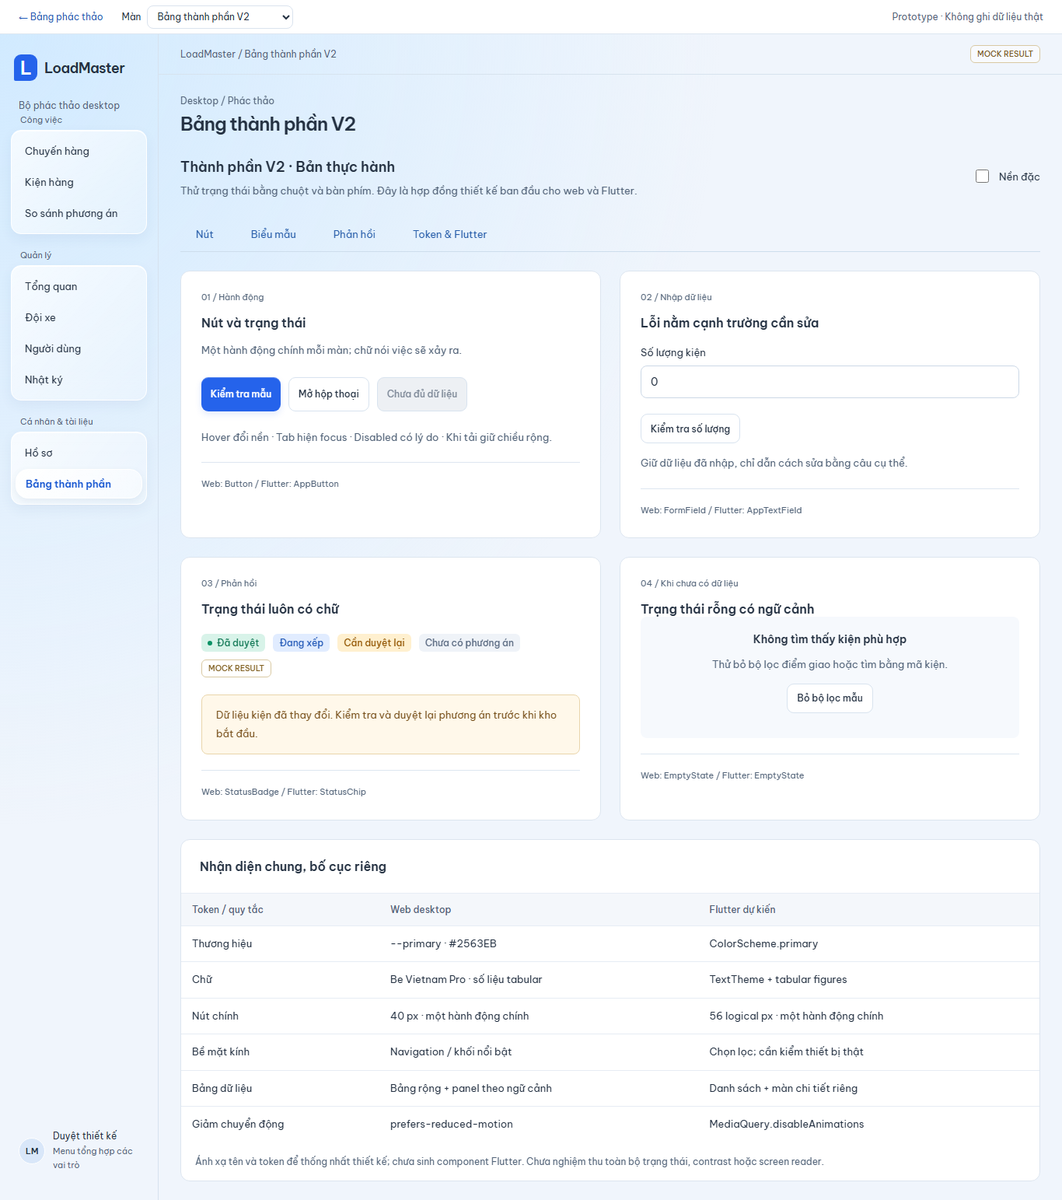
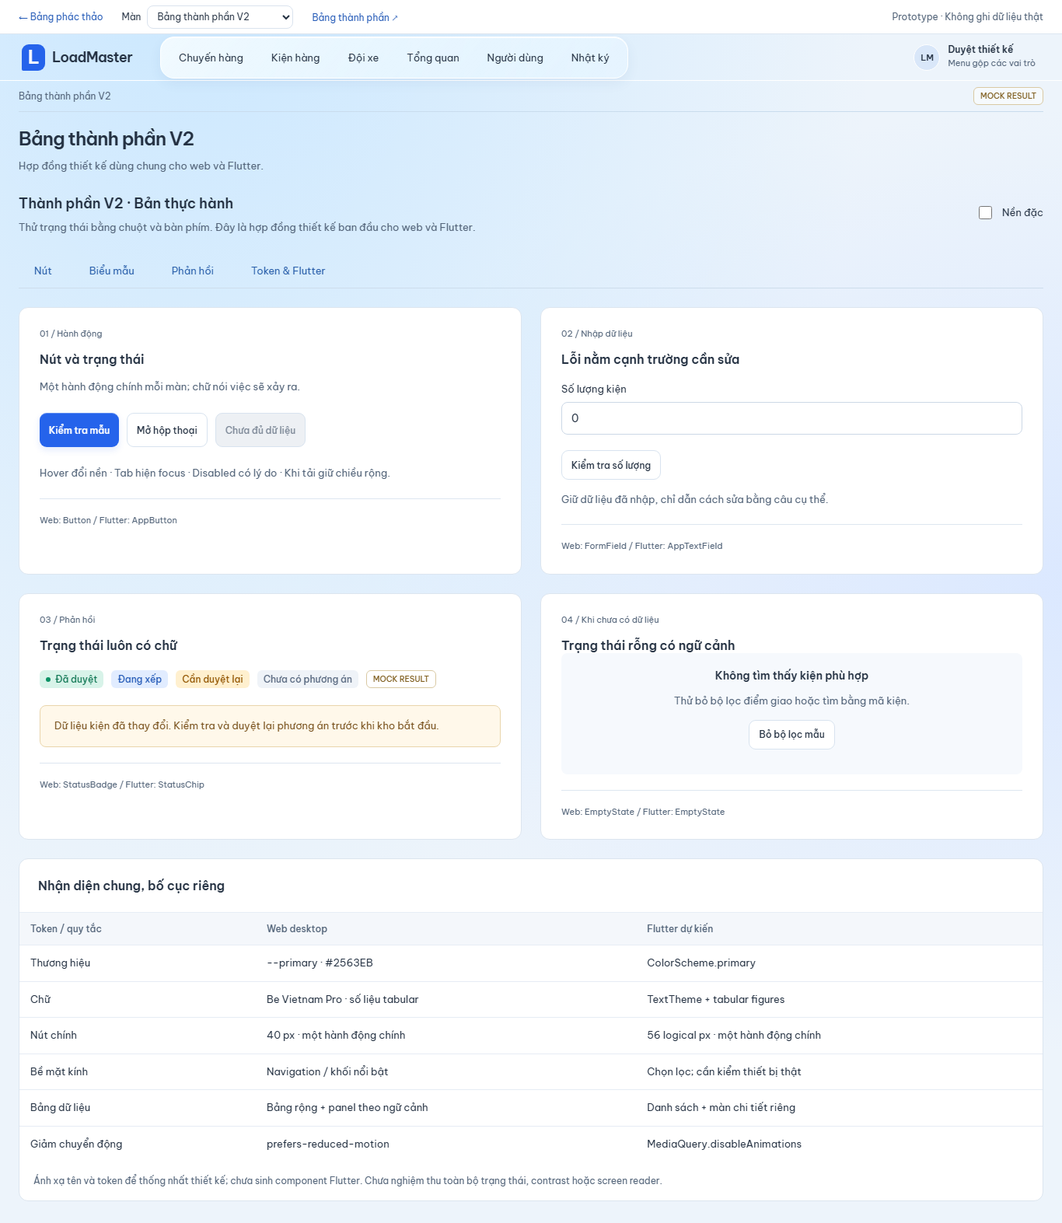
design(v2): đưa 15 màn desktop về chrome của hướng B
Chi tiết chuyến đã được duyệt theo hướng B, nhưng 15 màn thêm sau lại
dựng bằng sidebar dọc — gần với hướng A đã loại. Mở hai màn cạnh nhau
là thấy hai sản phẩm khác nhau.

Thay sidebar bằng thanh ngang 60 px của B: logo trái, pill kính ở giữa,
tài khoản phải. Nền lấy đúng trường xanh của B nên khối tổng hợp mới
đọc ra chất kính — trước đó khối đã khai --glass-fill nhưng nằm trên
nền gần trắng nên trông phẳng.

Điều hướng gom về sáu vùng làm việc thay vì ba nhóm sidebar. Màn phụ
(tạo chuyến, tối ưu, planner, so sánh, chi tiết xe) mượn mục cha nên
breadcrumb nói được đang ở nhánh nào. Hồ sơ nằm ở nút tài khoản, bảng
thành phần ở thanh duyệt — đúng chỗ của chúng.

Bỏ eyebrow "Desktop / Phác thảo": mỗi màn nay có một câu nói việc nó
phục vụ. Bỏ luôn breadcrumb kép.

enhanceDesktop trước đây dựng nav rồi ghi đè lại bằng outerHTML; nay
shell dựng thẳng từ một bảng điều hướng nên hàm đó không còn lý do tồn
tại. Thêm summaryBlock và panel để phần 2-3 hết phải tự chế card.

verify-desktop 9 màn và verify-screens 7 màn pass; không tràn ngang ở
1366/1024/950/760/390; lint pass.

diff --git a/design/v2/screens.css b/design/v2/screens.css
@@ -4,25 +4,38 @@
 .suite-review label { display: flex; align-items: center; gap: 8px; }
 .suite-review select { max-width: 240px; min-height: 30px; }
 .suite-review > a { color: #245ab7; }
-.suite-shell { display: grid; grid-template-columns: 204px minmax(0,1fr); min-height: calc(100vh - 44px); background: radial-gradient(ellipse at 0 0,#d1eaff,transparent 48%),#f0f5fc; }
-.suite-rail { padding: 26px 14px; border-right: 1px solid #d6e2ef; display: flex; flex-direction: column; gap: 24px; }
-.suite-rail .brand { padding: 0 4px; }
+.suite-shell { min-height: calc(100vh - 44px); background: radial-gradient(ellipse at 18% -12%,#c9e7ff,transparent 56%),radial-gradient(ellipse at 102% 46%,#dbe8ff,transparent 52%),#edf4fb; }
+.suite-rail { display: flex; align-items: center; gap: 32px; height: 60px; padding: 6px 24px; border-bottom: 1px solid #fff; }
+.suite-rail .brand { flex-shrink: 0; padding: 0 4px; }
 .suite-caption { font-size: 12px; color: var(--muted); line-height: 1.6; }
-.suite-rail > .suite-caption { margin: 6px 10px -14px; }
-.suite-rail .glass-nav { background: linear-gradient(130deg,#ffffffc2,#ffffff45); border: 1px solid white; backdrop-filter: blur(16px); box-shadow: 0 6px 16px #33517a10,inset 0 1px 0 #fff; }
-.suite-rail .glass-nav a { min-height: 48px; font-size: 13px; margin: 2px 0; }
-.suite-rail .glass-nav a:hover { background: #ffffff80; }
-.suite-rail .glass-nav [aria-current] { background: linear-gradient(125deg,#fffffff0,#ffffff75); border: 1px solid white; box-shadow: 0 3px 8px #46658718; }
-.rail-extra { display: grid; gap: 16px; padding: 0 14px; }
-.rail-extra a { font-size: 13px; }
-.suite-person { margin-top: auto; display: flex; gap: 10px; align-items: center; padding: 10px; font-size: 12px; }
-.suite-person small { display: block; color: var(--muted); font-size: 11px; margin-top: 4px; }
+.suite-nav { display: flex; padding: 5px; border-radius: 18px; background: linear-gradient(130deg,#ffffffc2,#ffffff45); border: 1px solid #fff; backdrop-filter: blur(16px) saturate(1.35); box-shadow: 0 6px 16px #33517a10,inset 0 1px 0 #fff; }
+.suite-nav a { min-height: 42px; padding: 0 18px; gap: 0; border-radius: 13px; white-space: nowrap; }
+.suite-nav a:hover { background: #ffffff80; }
+.suite-nav [aria-current] { background: linear-gradient(125deg,#fffffff0,#ffffff75); border: 1px solid #fff; box-shadow: 0 3px 8px #46658718; }
+.suite-person { margin-left: auto; display: flex; align-items: center; gap: 10px; padding: 6px 10px; border-radius: 12px; color: inherit; flex-shrink: 0; }
+.suite-person:hover { background: #ffffff7a; }
+.suite-person strong { display: block; font-size: 12px; }
+.suite-person small { display: block; color: var(--muted); font-size: 11px; margin-top: 2px; }
 .suite-work { min-width: 0; }
-.suite-top { display: flex; align-items: center; justify-content: space-between; min-height: 52px; padding: 0 28px; border-bottom: 1px solid #d7e3ee; font-size: 12px; color: var(--muted); }
-.suite-main { padding: 24px 28px; }
-.suite-title { display: flex; justify-content: space-between; align-items: center; margin-bottom: 24px; gap: 16px; }
-.suite-title h1 { font-size: 26px; margin: 4px 0 0; }
-.suite-title .button { min-height: 40px; font-size: 14px; }
+.suite-top { display: flex; align-items: center; justify-content: space-between; min-height: 40px; margin: 0 24px; border-bottom: 1px solid #c9dced; font-size: 12px; color: var(--muted); }
+.suite-main { padding: 18px 24px 28px; }
+.suite-title { display: flex; justify-content: space-between; align-items: flex-end; margin-bottom: 20px; gap: 24px; }
+.suite-title h1 { font-size: 24px; margin: 0; }
+.suite-lede { margin: 6px 0 0; max-width: 62ch; color: var(--muted); font-size: 13px; line-height: 1.7; }
+.suite-title .button { min-height: 40px; font-size: 14px; flex-shrink: 0; }
+/* Khối tổng hợp dùng chung: kính, số cùng màu mực, đơn vị nhỏ hơn. */
+.summary-block { display: flex; padding: 18px 24px; border: 1px solid #fff; border-radius: 16px; background: var(--glass-fill); box-shadow: var(--glass-edge),var(--glass-lift); margin-bottom: 22px; }
+.summary-block > div { flex: 1; display: grid; gap: 6px; align-content: start; padding: 0 22px; border-left: 1px solid #ccdbeb; }
+.summary-block > div:first-child { padding-left: 0; border-left: 0; }
+.summary-block span { color: var(--muted); font-size: 12px; }
+.summary-block strong { font-family: 'JetBrains Mono',monospace; font-size: 28px; font-weight: 500; color: var(--ink); font-variant-numeric: tabular-nums; line-height: 1.15; }
+.summary-block strong em { font-style: normal; font-size: 13px; color: var(--muted); margin-left: 5px; }
+.summary-block small { color: var(--muted); font-size: 11px; line-height: 1.6; }
+.summary-block.has-note > p { flex: 1.3; margin: 0; padding-left: 22px; border-left: 1px solid #ccdbeb; font-size: 12px; color: var(--muted); line-height: 1.8; align-self: center; }
+/* Bề mặt đọc: nền rõ, không kính lồng trong kính. */
+.surface-panel { background: #fff; border: 1px solid #dbe5f0; border-radius: 14px; }
+.panel-head { display: flex; align-items: center; justify-content: space-between; gap: 16px; padding: 16px 20px; border-bottom: 1px solid #e6edf5; }
+.panel-head h2 { font-size: 15px; margin: 0; }
 .summary-strip { display: grid; grid-template-columns: 1fr 1fr 1fr 1.4fr; padding: 22px 26px; border: 1px solid white; border-radius: 16px; background: var(--glass-fill); box-shadow: var(--glass-edge),var(--glass-lift); margin-bottom: 24px; gap: 24px; }
 .summary-strip > div { display: grid; gap: 8px; padding-right: 20px; border-right: 1px solid #cad9e9; }
 .summary-strip span { color: var(--muted); font-size: 12px; }
@@ -200,6 +213,6 @@ summary { cursor: pointer; font-size: 13px; }
 .queue-empty p { color: var(--muted); line-height: 1.8; font-size: 14px; margin-top: 12px; }
 .full-button { width: 100%; }
 @media(max-width:1200px) { .dispatch-grid { grid-template-columns: 1fr; } .attention-panel { display: grid; grid-template-columns: 1fr 1fr; gap: 16px; } .attention-panel > .suite-caption,.attention-panel > h2 { grid-column: 1/-1; margin: 0; } .form-layout,.optimization-layout { grid-template-columns: minmax(0,1fr) 230px; gap: 20px; } .planner-grid { grid-template-columns: minmax(0,1fr) 250px; } }
-@media(max-width:950px) { .suite-shell { grid-template-columns: 170px minmax(0,1fr); } .suite-rail .brand { font-size: 15px; } .suite-main { padding: 20px; } .summary-strip { grid-template-columns: repeat(3,1fr); } .summary-strip > p { grid-column: 1/-1; } .form-layout,.optimization-layout { grid-template-columns: 1fr; } .planner-grid { grid-template-columns: 1fr; } .mobile-stage { grid-template-columns: 280px 390px; gap: 28px; } }
-@media(max-width:760px) { .suite-review { flex-wrap: wrap; gap: 10px; padding: 10px 14px; } .suite-review > span { display: none; } .suite-review select { max-width: 190px; } .suite-shell { display: block; } .suite-rail { padding: 14px; gap: 14px; } .suite-rail > .suite-caption,.rail-extra,.suite-person { display: none; } .suite-rail nav { display: grid; grid-template-columns: 1fr 1fr; } .suite-rail .glass-nav a { font-size: 12px; } .suite-top { padding: 0 16px; } .suite-main { padding: 20px 14px; } .suite-title { flex-wrap: wrap; } .suite-title h1 { font-size: 24px; } .summary-strip { padding: 18px; gap: 16px; } .summary-strip > div { padding-right: 8px; } .summary-strip strong { font-size: 24px; } .list-tools { flex-wrap: wrap; } .list-tools .search { flex-basis: 100%; } .attention-panel { display: block; } .attention-panel h2 { margin-top: 10px; } .form-paper { padding: 20px 16px; } .field-grid { grid-template-columns: 1fr; } .attached-data { flex-wrap: wrap; } .form-actions small { flex-basis: 100%; } .editable-stops { margin-inline: -4px; } .editable-stops li { gap: 8px; } .editable-stops button { width: 38px; flex-shrink: 0; } .input-review .review-facts { gap: 10px; } .input-review .review-facts dd { font-size: 21px; } .planner-stage { min-height: 460px; } .planner-stage > img { width: 900px; height: 563px; } .planner-inspector { padding: 20px; } .mobile-stage { display: block; padding: 0; } .mobile-notes { display: none; } .phone-app { width: 100%; border-radius: 0; border: 0; box-shadow: none; } .phone-header { min-height: 64px; } .phone-content { padding: 18px 16px; } .suite-dialog .button { min-height: 48px; } .suite-dialog input,.suite-dialog textarea { font-size: 16px; } }
+@media(max-width:950px) { .suite-rail { gap: 20px; padding-inline: 16px; } .suite-rail .brand { font-size: 15px; } .suite-nav a { padding: 0 13px; } .suite-main { padding: 20px; } .summary-strip { grid-template-columns: repeat(3,1fr); } .summary-strip > p { grid-column: 1/-1; } .form-layout,.optimization-layout { grid-template-columns: 1fr; } .planner-grid { grid-template-columns: 1fr; } .mobile-stage { grid-template-columns: 280px 390px; gap: 28px; } }
+@media(max-width:760px) { .suite-review { flex-wrap: wrap; gap: 10px; padding: 10px 14px; } .suite-review > span { display: none; } .suite-review select { max-width: 190px; } .suite-rail { height: auto; flex-wrap: wrap; gap: 12px; padding: 12px 14px; } .suite-person { display: none; } .suite-nav { order: 2; width: 100%; overflow-x: auto; } .suite-nav a { font-size: 12px; padding: 0 12px; } .suite-top { margin-inline: 14px; } .summary-block { flex-wrap: wrap; gap: 16px 0; padding: 16px; } .summary-block > div { flex-basis: 45%; } .summary-block strong { font-size: 24px; } .summary-block.has-note > p { flex-basis: 100%; padding-left: 0; border-left: 0; } .suite-main { padding: 20px 14px; } .suite-title { flex-wrap: wrap; } .suite-title h1 { font-size: 24px; } .summary-strip { padding: 18px; gap: 16px; } .summary-strip > div { padding-right: 8px; } .summary-strip strong { font-size: 24px; } .list-tools { flex-wrap: wrap; } .list-tools .search { flex-basis: 100%; } .attention-panel { display: block; } .attention-panel h2 { margin-top: 10px; } .form-paper { padding: 20px 16px; } .field-grid { grid-template-columns: 1fr; } .attached-data { flex-wrap: wrap; } .form-actions small { flex-basis: 100%; } .editable-stops { margin-inline: -4px; } .editable-stops li { gap: 8px; } .editable-stops button { width: 38px; flex-shrink: 0; } .input-review .review-facts { gap: 10px; } .input-review .review-facts dd { font-size: 21px; } .planner-stage { min-height: 460px; } .planner-stage > img { width: 900px; height: 563px; } .planner-inspector { padding: 20px; } .mobile-stage { display: block; padding: 0; } .mobile-notes { display: none; } .phone-app { width: 100%; border-radius: 0; border: 0; box-shadow: none; } .phone-header { min-height: 64px; } .phone-content { padding: 18px 16px; } .suite-dialog .button { min-height: 48px; } .suite-dialog input,.suite-dialog textarea { font-size: 16px; } }
 @media(max-width:760px) { .phone-app { height: calc(100dvh - 51px); } }

diff --git a/design/v2/screen-ui.js b/design/v2/screen-ui.js
@@ -5,11 +5,46 @@ export const escape = value => String(value).replace(/[&<>"']/g, c => ({ '&': '&
 export const href = screen => `./screens.html?screen=${screen}`;
 export const badge = (label, tone = 'neutral') => `<span class="badge ${tone}">${label}</span>`;
 export const link = (label, screen, primary = false) => `<a class="button ${primary ? 'primary' : 'secondary'}" href="${href(screen)}">${label}</a>`;
+// Điều hướng chính: sáu vùng làm việc, giống nav rail của app thật.
+// Màn phụ mượn mục cha để người đọc biết mình đang ở nhánh nào.
+export const navPrimary = [['trips', 'Chuyến hàng'], ['cargo', 'Kiện hàng'], ['fleet', 'Đội xe'], ['dashboard', 'Tổng quan'], ['users', 'Người dùng'], ['audit', 'Nhật ký']];
+export const navParent = { create: 'trips', optimize: 'trips', planner: 'trips', compare: 'trips', vehicle: 'fleet' };
+// Mỗi màn nói việc nó phục vụ, thay cho eyebrow "Desktop / Phác thảo" vô nghĩa.
+export const screenLede = {
+  trips: 'Chuyến trong kỳ, trạng thái phương án và việc cần xử lý trước khi bàn giao kho.',
+  create: 'Nhập thông tin chuyến, chọn xe và sắp thứ tự điểm giao.',
+  optimize: 'Khai báo yêu cầu xếp và kiểm tra đầu vào trước khi chạy tối ưu.',
+  planner: 'Đọc phương án trong không gian 3D và kiểm tra từng kiện.',
+  cargo: 'Danh mục kiện của chuyến, sửa thông số và kiểm dữ liệu nhập.',
+  compare: 'Đối chiếu các bản phương án đã lưu của cùng một chuyến.',
+  fleet: 'Trạng thái đội xe và xe đang phục vụ chuyến nào.',
+  vehicle: 'Kích thước lòng thùng, tải trọng và vật cản của một xe.',
+  dashboard: 'Chuyến, tỷ lệ lấp đầy và khối lượng đã giao trong kỳ đang xem.',
+  users: 'Tài khoản, vai trò và quyền trong hệ thống.',
+  audit: 'Sự kiện ghi lại từ các thao tác có ghi dữ liệu.',
+  profile: 'Thông tin cá nhân và tuỳ chọn hiển thị.',
+  components: 'Hợp đồng thiết kế dùng chung cho web và Flutter.',
+};
 export function reviewBar(screen) {
-  return `<div class="suite-review"><a href="./sketchbook.html">← Bảng phác thảo</a><label>Màn <select id="screen-picker">${Object.entries(screenNames).map(([key, label]) => `<option value="${key}" ${key === screen ? 'selected' : ''}>${label}</option>`).join('')}</select></label><span>Prototype · Không ghi dữ liệu thật</span></div>`;
+  return `<div class="suite-review"><a href="./sketchbook.html">← Bảng phác thảo</a><label>Màn <select id="screen-picker">${Object.entries(screenNames).map(([key, label]) => `<option value="${key}" ${key === screen ? 'selected' : ''}>${label}</option>`).join('')}</select></label><a href="${href('components')}">Bảng thành phần ↗</a><span>Prototype · Không ghi dữ liệu thật</span></div>`;
+}
+// Khối tổng hợp trên nền kính: số cùng màu mực, đơn vị nhỏ hơn, mỗi ô một dòng nguồn.
+export function summaryBlock(items, note = '') {
+  return `<section class="summary-block${note ? ' has-note' : ''}" aria-label="Số liệu tổng hợp">${items.map(({ label, value, unit = '', note: hint = '' }) =>
+    `<div><span>${label}</span><strong>${value}${unit ? `<em>${unit}</em>` : ''}</strong>${hint ? `<small>${hint}</small>` : ''}</div>`).join('')}${note ? `<p>${note}</p>` : ''}</section>`;
+}
+// Bề mặt đọc: nền rõ, viền mảnh, không kính lồng trong kính.
+export function panel(title, body, extra = '') {
+  return `<section class="surface-panel"><div class="panel-head"><h2>${title}</h2>${extra}</div>${body}</section>`;
 }
 export function shell(screen, content, action = '') {
-  return `${reviewBar(screen)}<div class="suite-shell"><aside class="suite-rail"><a class="brand" href="${href('trips')}"><span class="brand-mark">L</span>LoadMaster</a><span class="suite-caption">Điều phối vận tải</span><nav class="glass glass-nav" aria-label="Điều hướng mẫu"><a href="${href('trips')}" ${screen === 'trips' ? 'aria-current="page"' : ''}>Chuyến hàng</a><a href="${href('create')}" ${screen === 'create' ? 'aria-current="page"' : ''}>Lập chuyến mới</a><a href="${href('optimize')}" ${screen === 'optimize' ? 'aria-current="page"' : ''}>Thiết lập tối ưu</a><a href="${href('planner')}" ${screen === 'planner' ? 'aria-current="page"' : ''}>Không gian 3D</a></nav><div class="rail-extra"><span class="suite-caption">Ứng dụng hiện trường</span><a href="${href('driver')}">Tài xế ↗</a><a href="${href('warehouse')}">Nhân viên kho ↗</a></div><div class="suite-person"><span class="avatar">ĐP</span><span>Điều phối viên<small>Không gian mẫu</small></span></div></aside><div class="suite-work"><header class="suite-top"><span>LoadMaster / ${screenNames[screen]}</span>${badge('MOCK RESULT', 'mock')}</header><main class="suite-main"><div class="suite-title"><div><p class="suite-caption">Điều phối / ${screen === 'trips' ? 'Danh sách' : 'Chuyến hàng'}</p><h1>${screenNames[screen]}</h1></div>${action}</div>${content}</main></div></div>`;
+  const parent = navParent[screen] ?? screen;
+  const parentLabel = Object.fromEntries(navPrimary)[parent];
+  const trail = parentLabel && parent !== screen
+    ? `<a href="${href(parent)}">${parentLabel}</a><span>/</span><span>${screenNames[screen]}</span>`
+    : `<span>${screenNames[screen]}</span>`;
+  const lede = screenLede[screen] ? `<p class="suite-lede">${screenLede[screen]}</p>` : '';
+  return `${reviewBar(screen)}<div class="suite-shell"><header class="suite-rail"><a class="brand" href="${href('trips')}"><span class="brand-mark">L</span>LoadMaster</a><nav class="glass-nav suite-nav" aria-label="Điều hướng chính">${navPrimary.map(([key, label]) => `<a href="${href(key)}" ${key === parent ? 'aria-current="page"' : ''}>${label}</a>`).join('')}</nav><a class="suite-person" href="${href('profile')}"><span class="avatar">LM</span><span><strong>Duyệt thiết kế</strong><small>Menu gộp các vai trò</small></span></a></header><div class="suite-work"><nav class="suite-top" aria-label="Đường dẫn"><span class="breadcrumb">${trail}</span>${badge('MOCK RESULT', 'mock')}</nav><main class="suite-main"><div class="suite-title"><div><h1>${screenNames[screen]}</h1>${lede}</div>${action}</div>${content}</main></div></div>`;
 }
 export function mobileShell(screen, content, footer = '') {
   return `${reviewBar(screen)}<div class="mobile-stage"><aside class="mobile-notes"><span class="suite-caption">Phác thảo mobile / Android trước</span><h1>${screenNames[screen]}</h1><p>Cùng nhận diện với web. Một việc chính trên mỗi màn, nút lớn, không cần thao tác hover.</p><nav>${link('Tài xế', 'driver')}${link('Kho', 'warehouse')}${link('Gửi lại', 'queue')}</nav><small>Các thao tác chỉ đổi trạng thái mẫu trong trang. Chưa là app Flutter và chưa gửi dữ liệu.</small></aside><div class="phone-app"><header class="phone-header"><a href="${href(screen === 'queue' ? 'driver' : 'trips')}" aria-label="Quay lại">←</a><strong>${screenNames[screen]}</strong>${badge('Mẫu', 'info')}</header>${content}${footer ? `<footer class="phone-actions">${footer}</footer>` : ''}</div></div>`;

diff --git a/design/v2/desktop-ui.js b/design/v2/desktop-ui.js
@@ -1,4 +1,4 @@
-import { $, escape, href } from './screen-ui.js';
+import { $, escape } from './screen-ui.js';
 export const roleNames = { dispatcher: 'Điều phối', manager: 'Quản lý', warehouse: 'Nhân viên kho', driver: 'Tài xế', admin: 'Quản trị' };
 export const statusNames = { nhap: 'Nháp', da_toi_uu: 'Chờ duyệt', da_duyet: 'Đã duyệt', can_xem_lai: 'Cần duyệt lại', dang_xep_hang: 'Đang xếp', da_xep_xong: 'Đã xếp xong', dang_giao: 'Đang giao', hoan_thanh: 'Hoàn thành', da_huy: 'Đã huỷ' };
 export const normalize = value => String(value).normalize('NFD').replace(/[\u0300-\u036f]/g, '').replace(/đ/gi, 'd').toLowerCase();
@@ -11,18 +11,6 @@ export function download(name, text, mime = 'text/plain') {
 }
 export function table(headers, body, id = '') {
   return `<div class="desktop-table-scroll"><table class="desktop-table" ${id ? `id="${id}"` : ''}><thead><tr>${headers.map(h => `<th scope="col">${h}</th>`).join('')}</tr></thead><tbody>${body}</tbody></table></div>`;
-}
-export function enhanceDesktop(screen) {
-  const rail = document.querySelector('.suite-rail');
-  if (!rail) return;
-  const groups = [ ['Công việc', [['trips','Chuyến hàng'],['cargo','Kiện hàng'],['compare','So sánh phương án']]],
-    ['Quản lý', [['dashboard','Tổng quan'],['fleet','Đội xe'],['users','Người dùng'],['audit','Nhật ký']]],
-    ['Cá nhân & tài liệu', [['profile','Hồ sơ'],['components','Bảng thành phần']]] ];
-  rail.querySelector('nav').outerHTML = `<nav class="desktop-nav" aria-label="Điều hướng phác thảo desktop">${groups.map(([label,items]) => `<div class="nav-group"><span>${label}</span><div class="glass-nav">${items.map(([key,title]) => `<a href="${href(key)}" ${key === screen || key === 'fleet' && screen === 'vehicle' ? 'aria-current="page"' : ''}>${title}</a>`).join('')}</div></div>`).join('')}</nav>`;
-  rail.querySelector('.rail-extra')?.remove();
-  const caption = rail.querySelector(':scope > .suite-caption'); if (caption) caption.textContent = 'Bộ phác thảo desktop';
-  const person = rail.querySelector('.suite-person'); if (person) person.innerHTML = '<span class="avatar">LM</span><span>Duyệt thiết kế<small>Menu tổng hợp các vai trò</small></span>';
-  const crumb = document.querySelector('.suite-title .suite-caption'); if (crumb) crumb.textContent = ['users','audit'].includes(screen) ? 'Quản trị / Phác thảo' : screen === 'dashboard' ? 'Quản lý / Phác thảo' : 'Desktop / Phác thảo';
 }
 export function bindPreviewForm(formId, resultId, message) {
   $(formId).onsubmit = event => { event.preventDefault(); $(resultId).textContent = message; };

diff --git a/design/v2/desktop.css b/design/v2/desktop.css
@@ -1,9 +1,4 @@
 /* Desktop extension of the approved B prototype. No production token overrides. */
-.suite-rail { gap: 16px; }
-.desktop-nav { display: grid; gap: 20px; }
-.nav-group > span { display: block; font-size: 11px; color: var(--muted); margin: 0 12px 6px; }
-.suite-rail .desktop-nav .glass-nav { padding: 5px; border-radius: 13px; }
-.suite-rail .desktop-nav a { min-height: 38px; padding: 10px 12px; }
 .suite-title { margin-bottom: 20px; }
 .suite-title h1 { font-size: 24px; }
 .workspace-intro { display: flex; align-items: center; justify-content: space-between; gap: 24px; margin-bottom: 22px; }
@@ -126,8 +121,8 @@ meter::-webkit-meter-bar { background: #edf2fa; border: 0; }
 .empty-spec p { margin: 12px 0; font-size: 13px; color: var(--muted); line-height: 1.8; }
 .token-spec { margin-top: 24px; }
 .token-spec > h2 { padding: 24px; }
-.solid-desktop .suite-rail .glass-nav,.solid-desktop .summary-strip,.solid-desktop .mini-glass,.solid-desktop .fleet-summary,.solid-desktop .dashboard-kpis { background: #fff; box-shadow: none; backdrop-filter: none; border-color: #d3dfed; }
-.solid-desktop .suite-rail .glass-nav [aria-current] { background: #eaf2ff; box-shadow: none; border-color: #bfd3ef; }
+.solid-desktop .suite-nav,.solid-desktop .summary-block,.solid-desktop .summary-strip,.solid-desktop .mini-glass,.solid-desktop .fleet-summary,.solid-desktop .dashboard-kpis { background: #fff; box-shadow: none; backdrop-filter: none; border-color: #d3dfed; }
+.solid-desktop .suite-nav [aria-current] { background: #eaf2ff; box-shadow: none; border-color: #bfd3ef; }
 @media(max-width:1150px) { .workbench { grid-template-columns: minmax(0,1fr) 260px; gap: 16px; } .vehicle-workspace { grid-template-columns: 1fr; } .vehicle-drawing svg { max-width: 420px; } .dashboard-kpis { grid-template-columns: 1fr 1fr; gap: 24px; } .suite-main { padding: 22px 20px; } }
 @media(max-width:900px) { .workbench,.profile-layout,.insights-grid,.spec-grid { grid-template-columns: 1fr; } .workspace-intro,.comparison-context { flex-wrap: wrap; } .revision-heading { gap: 10px; padding: 16px; } .fleet-summary { grid-template-columns: 1fr 1fr; } }
 @media(prefers-reduced-transparency:reduce) { .fleet-summary,.dashboard-kpis { background: white; } }

diff --git a/design/v2/screens.js b/design/v2/screens.js
@@ -7,11 +7,9 @@ import { fleet, vehicle } from './desktop-fleet.js';
 import { dashboard, compare } from './desktop-insights.js';
 import { users, audit, profile } from './desktop-admin.js';
 import { components } from './desktop-components.js';
-import { enhanceDesktop } from './desktop-ui.js';
 const requested = new URL(location.href).searchParams.get('screen');
 const screen = Object.hasOwn(screenNames, requested) ? requested : 'trips';
 document.title = `LoadMaster V2 · ${screenNames[screen]}`;
 document.body.classList.toggle('solid-desktop', sessionStorage.getItem('loadmaster-v2-solid') === '1');
 ({ trips: tripList, create: createTrip, optimize: optimization, planner, driver, warehouse, queue, cargo, fleet, vehicle, dashboard, compare, users, audit, profile, components })[screen]();
-enhanceDesktop(screen);
 activateShell();
